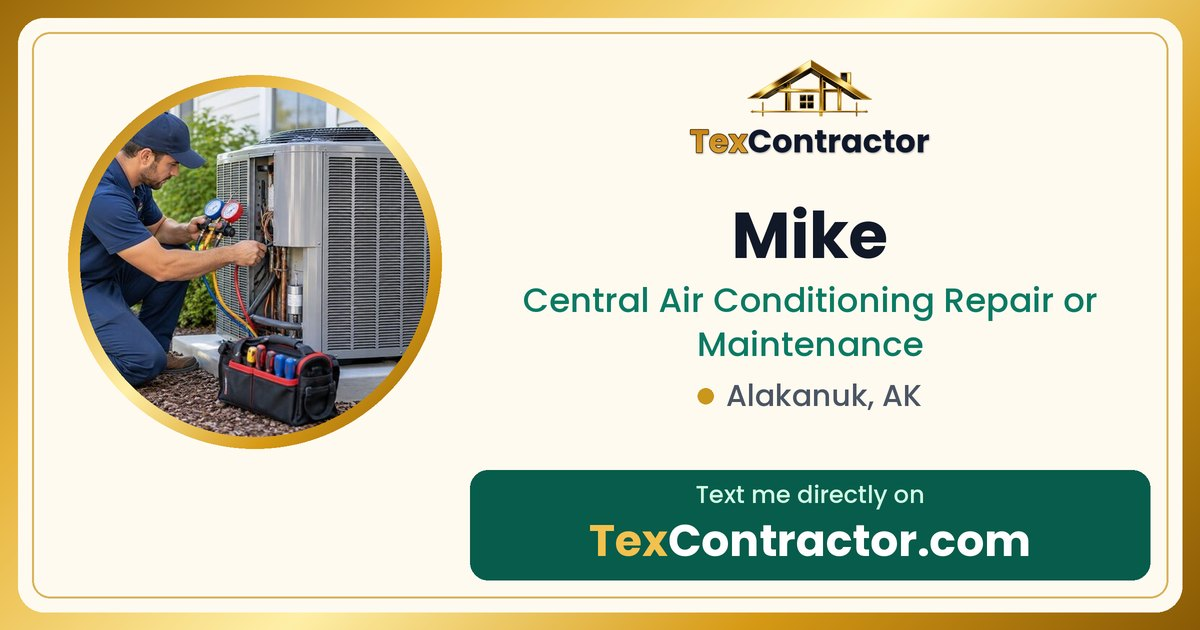
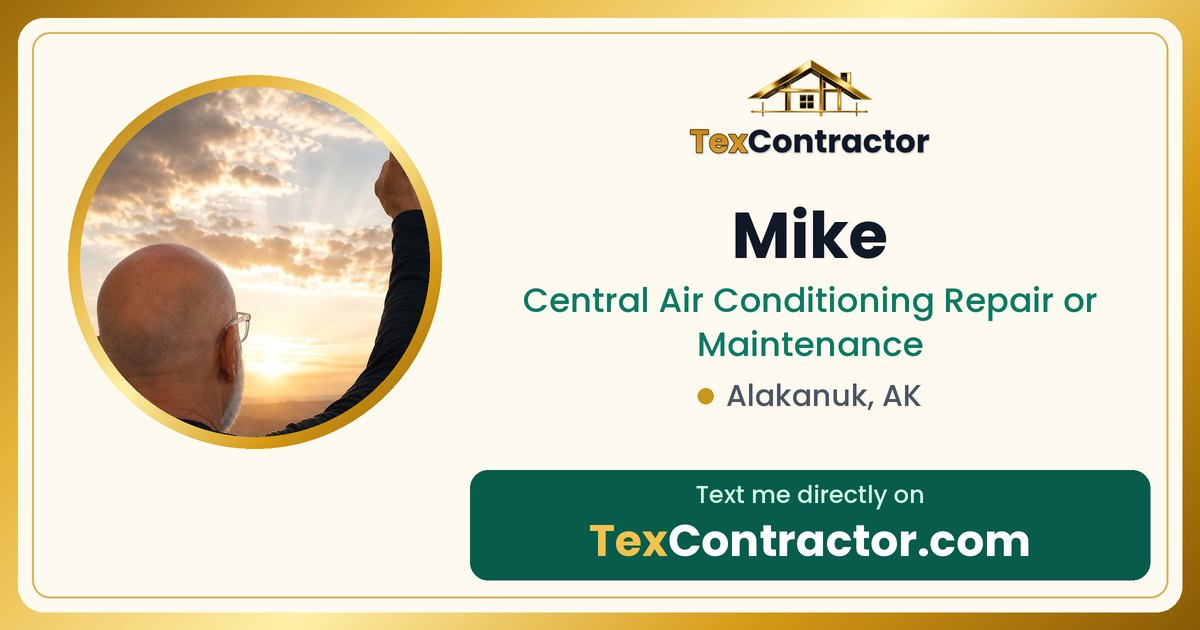
Update technician share cards

Changed region(s): [[0.0617, 0.1206, 0.37, 0.6937]]

diff --git a/p/3f703bad-223d-4345-96b8-7986fc43338a/index.html b/p/3f703bad-223d-4345-96b8-7986fc43338a/index.html
@@ -1,0 +1,26 @@
+<!doctype html>
+<html lang="en">
+<head>
+<meta charset="utf-8">
+<meta name="viewport" content="width=device-width, initial-scale=1">
+<meta name="robots" content="noindex, follow">
+<title>Ramtha Car Keys · Lock Installation and Repair</title>
+<meta name="description" content="Text Ramtha Car Keys directly on TexContractor · Fort Worth, TX. Free for customers.">
+<meta property="og:type" content="profile">
+<meta property="og:site_name" content="TexContractor">
+<meta property="og:title" content="Ramtha Car Keys · Lock Installation and Repair">
+<meta property="og:description" content="Text Ramtha Car Keys directly on TexContractor · Fort Worth, TX. Free for customers.">
+<meta property="og:image" content="https://texcontractor.com/p/3f703bad-223d-4345-96b8-7986fc43338a/card.jpg?v=2655d90a">
+<meta property="og:image:width" content="1200"><meta property="og:image:height" content="630">
+<meta property="og:url" content="https://texcontractor.com/p/3f703bad-223d-4345-96b8-7986fc43338a/">
+<meta name="twitter:card" content="summary_large_image">
+<meta name="twitter:image" content="https://texcontractor.com/p/3f703bad-223d-4345-96b8-7986fc43338a/card.jpg?v=2655d90a">
+<link rel="canonical" href="https://texcontractor.com/profile.html?contractor=3f703bad-223d-4345-96b8-7986fc43338a&amp;service=Lock+Installation+and+Repair">
+<link rel="icon" href="/favicon.ico">
+<script>location.replace("https://texcontractor.com/profile.html?contractor=3f703bad-223d-4345-96b8-7986fc43338a&service=Lock+Installation+and+Repair" + (location.search ? '&' + location.search.slice(1) : ''));</script>
+</head>
+<body style="font-family:system-ui,sans-serif;text-align:center;padding:24px">
+<p><a href="https://texcontractor.com/profile.html?contractor=3f703bad-223d-4345-96b8-7986fc43338a&amp;service=Lock+Installation+and+Repair"><img src="card.jpg" alt="Ramtha Car Keys" style="max-width:100%;border-radius:12px"></a></p>
+<p><a href="https://texcontractor.com/profile.html?contractor=3f703bad-223d-4345-96b8-7986fc43338a&amp;service=Lock+Installation+and+Repair">Text Ramtha Car Keys on TexContractor</a></p>
+</body>
+</html>

diff --git a/p/2a2d1b84-1d01-43e4-88e6-4ba75d33dd8d/index.html b/p/2a2d1b84-1d01-43e4-88e6-4ba75d33dd8d/index.html
@@ -10,11 +10,11 @@
 <meta property="og:site_name" content="TexContractor">
 <meta property="og:title" content="Mike · Central Air Conditioning Repair or Maintenance">
 <meta property="og:description" content="Text Mike directly on TexContractor · Alakanuk, AK. Free for customers.">
-<meta property="og:image" content="https://texcontractor.com/p/2a2d1b84-1d01-43e4-88e6-4ba75d33dd8d/card.jpg?v=6ef4ef9c">
+<meta property="og:image" content="https://texcontractor.com/p/2a2d1b84-1d01-43e4-88e6-4ba75d33dd8d/card.jpg?v=e1ebbb4a">
 <meta property="og:image:width" content="1200"><meta property="og:image:height" content="630">
 <meta property="og:url" content="https://texcontractor.com/p/2a2d1b84-1d01-43e4-88e6-4ba75d33dd8d/">
 <meta name="twitter:card" content="summary_large_image">
-<meta name="twitter:image" content="https://texcontractor.com/p/2a2d1b84-1d01-43e4-88e6-4ba75d33dd8d/card.jpg?v=6ef4ef9c">
+<meta name="twitter:image" content="https://texcontractor.com/p/2a2d1b84-1d01-43e4-88e6-4ba75d33dd8d/card.jpg?v=e1ebbb4a">
 <link rel="canonical" href="https://texcontractor.com/profile.html?contractor=2a2d1b84-1d01-43e4-88e6-4ba75d33dd8d&amp;service=Central+Air+Conditioning+Repair+or+Maintenance">
 <link rel="icon" href="/favicon.ico">
 <script>location.replace("https://texcontractor.com/profile.html?contractor=2a2d1b84-1d01-43e4-88e6-4ba75d33dd8d&service=Central+Air+Conditioning+Repair+or+Maintenance" + (location.search ? '&' + location.search.slice(1) : ''));</script>
